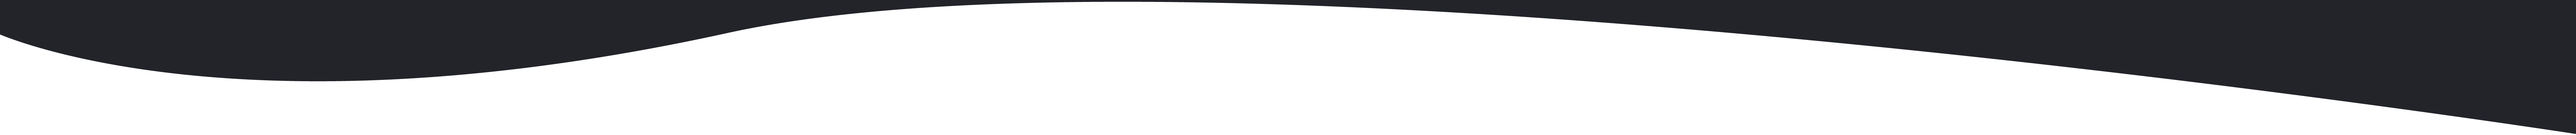
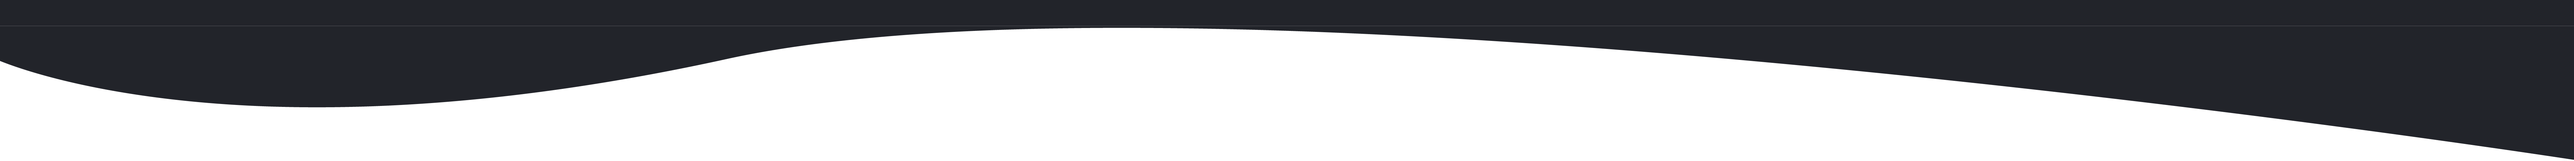
Fixed a glitch in header size

Changed region(s): [[0.0, 0.0, 0.9655, 0.8998], [0.9655, 0.8998, 0.9966, 0.9618], [0.9966, 0.9618, 1.0, 0.9928]]

diff --git a/css/styles.css b/css/styles.css
@@ -15,6 +15,11 @@ body{
 header{
     margin-bottom: -1px;
 }
+@media screen and (max-width: 550px){
+    header{
+        margin-bottom: -5px;
+    }
+}
 
 /* Navbar */
 .navbar-brand{
